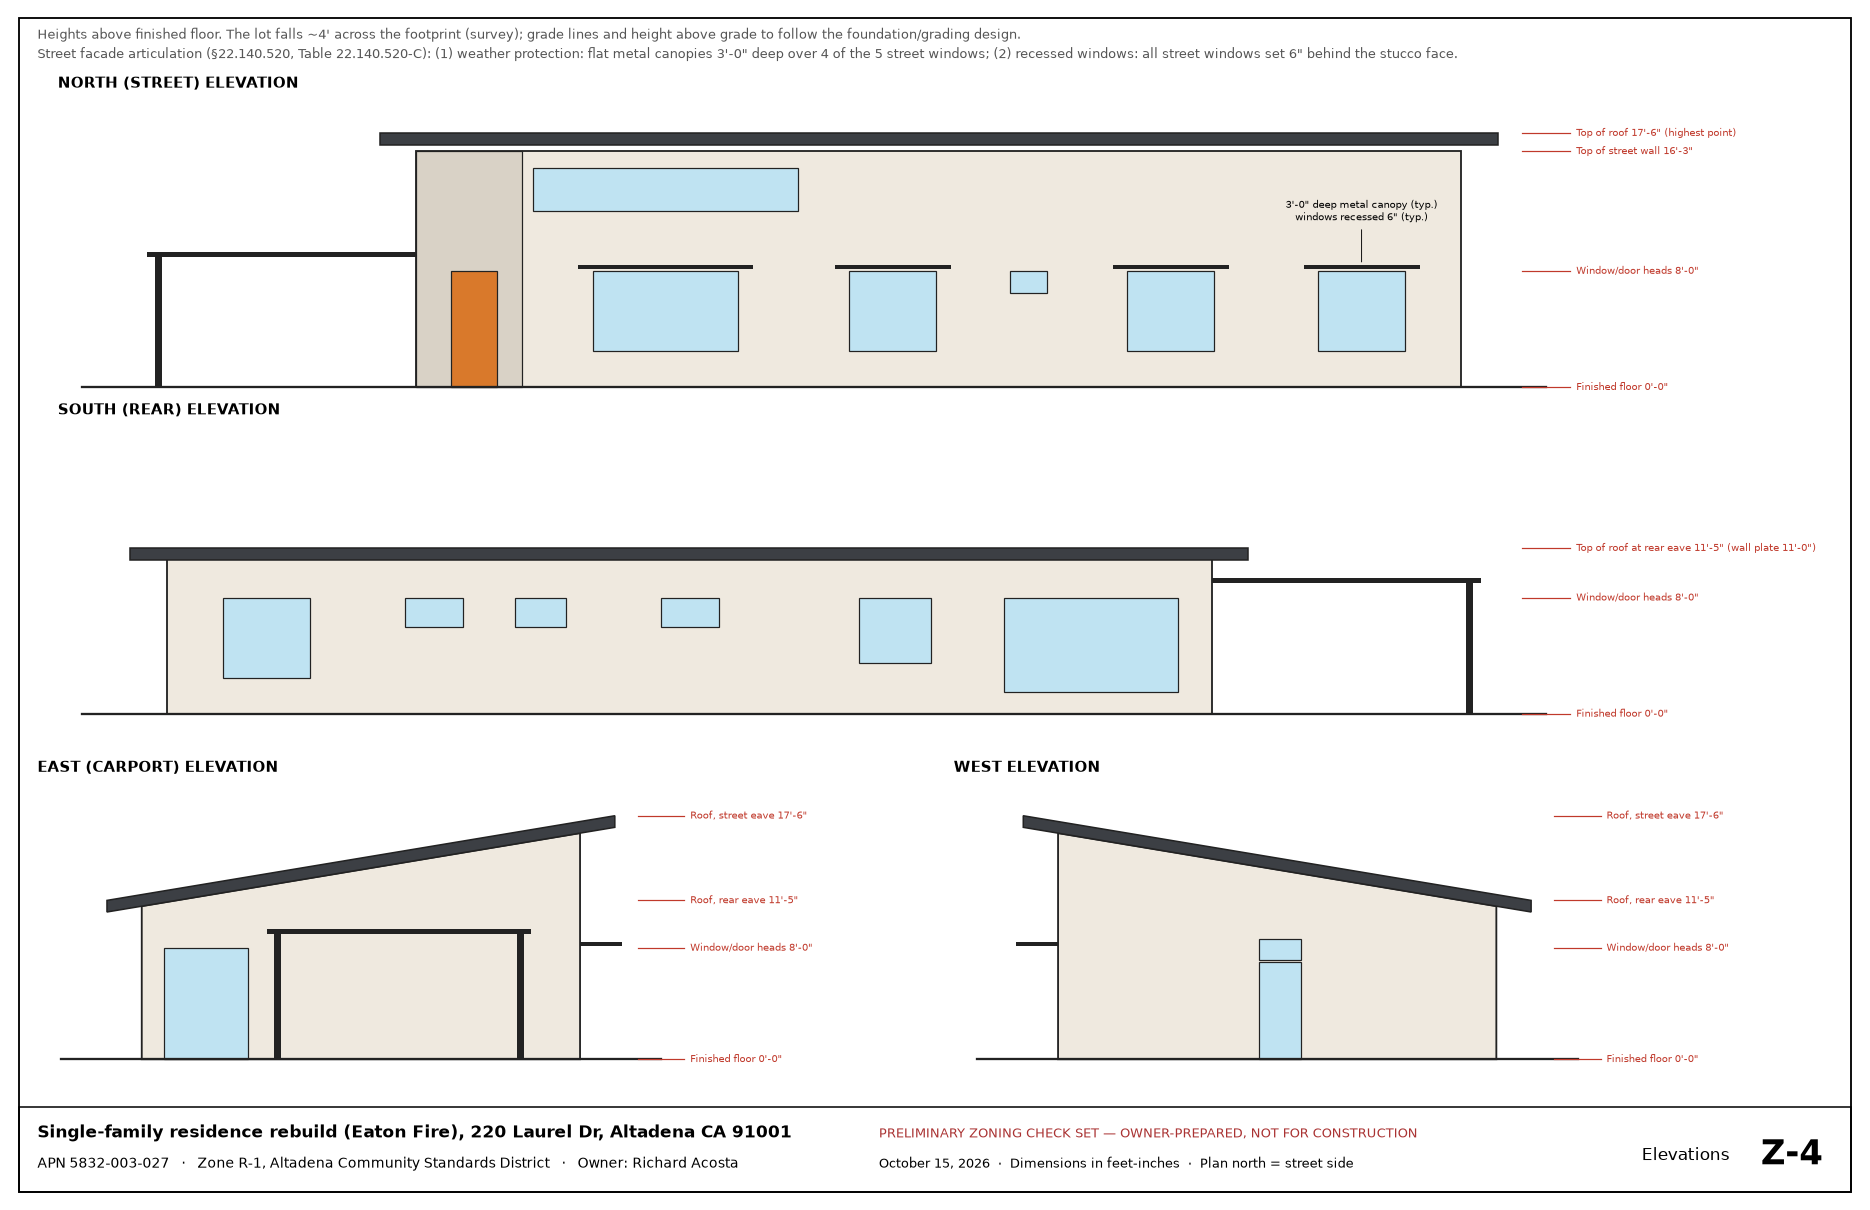
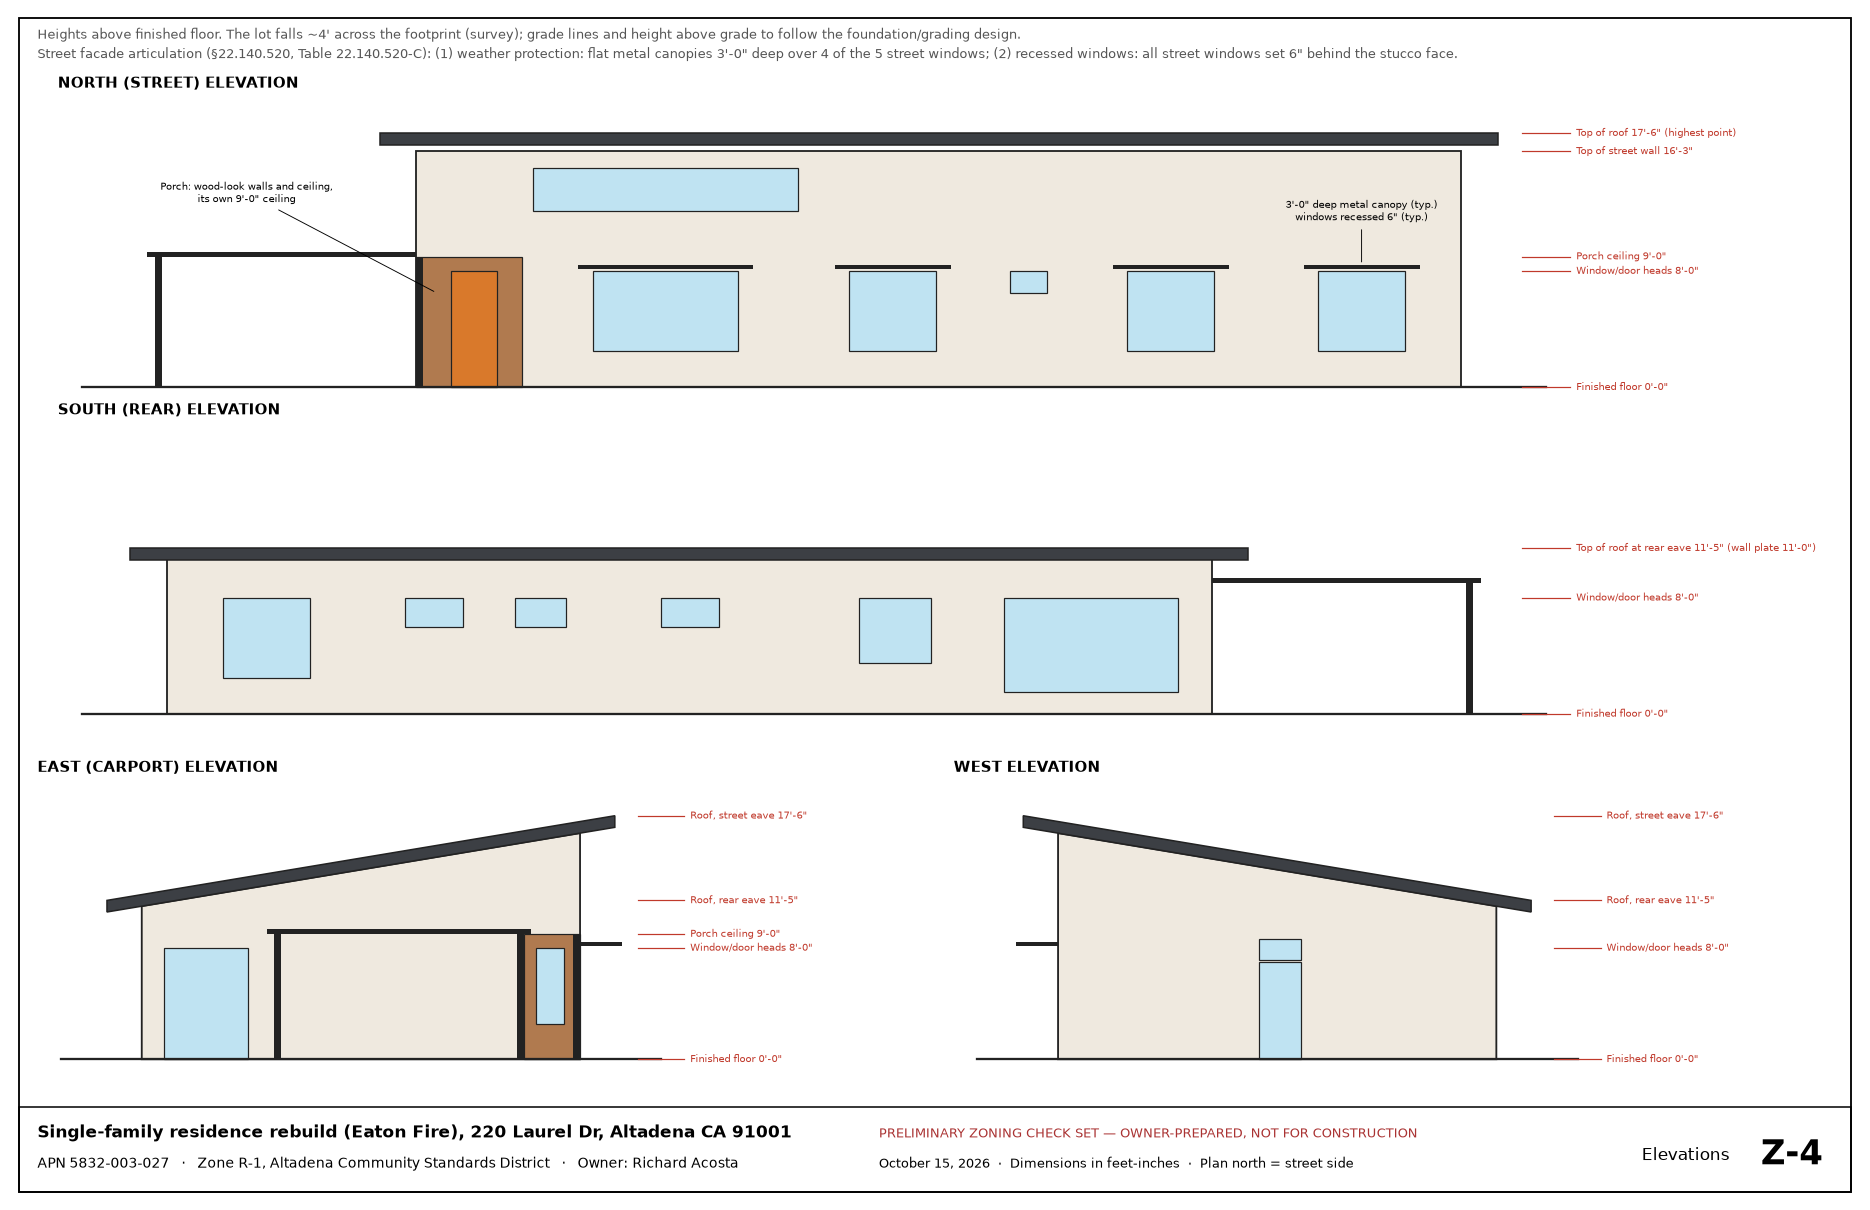
Zoning set Z-4: the porch shown with its own 9' ceiling and wood-look walls (street and carport elevations), with the reeded side window and the corner post

Changed region(s): [[0.2171, 0.1223, 0.2791, 0.3364], [0.2791, 0.7645, 0.3102, 0.8868], [0.093, 0.1529, 0.1551, 0.1835]]

diff --git a/scripts/zoning_set.py b/scripts/zoning_set.py
@@ -253,6 +253,10 @@ def openings_on(wall):
         yield o[1], o[2], z0, z1, k
 
 
+WOOD = "#b07a4f"
+PORCH_CEIL = M.CEIL                                    # the porch's own ceiling, 9'-0"
+
+
 def elevation(ax, side):
     """side: north | south | east | west. Horizontal axis runs left-to-right as seen from outside."""
     flip = side in ("south", "east")
@@ -264,8 +268,11 @@ def elevation(ax, side):
         za = UNDER(S.N - OV) if side == "north" else UNDER(S.S + OV)
         ax.add_patch(Rectangle((min(h(a - OV), h(b + OV)), za), b - a + 2 * OV, THK, fc="#3c3f44", ec=INK))
         if side == "north":
-            ax.add_patch(Rectangle((h(a) if not flip else h(S.PORCH_X), 0), S.PORCH_X - a, wall_top,
-                                   fc="#d9d2c6", ec=INK, lw=0.8))                    # recessed porch
+            ax.add_patch(Rectangle((h(a), 0), S.PORCH_X - a, PORCH_CEIL, fc=WOOD, ec=INK, lw=0.8))   # porch: its
+            ax.add_patch(Rectangle((h(a), 0), 6, PORCH_CEIL, fc=INK))       # wood-look back wall under its own
+            ax.annotate("Porch: wood-look walls and ceiling,\nits own 9'-0\" ceiling", (h(a) + 17, PORCH_CEIL - 30),
+                        (h(a) - 140, PORCH_CEIL + 45), fontsize=6.5, ha="center",
+                        arrowprops=dict(arrowstyle="-", lw=0.6))
             for x0, x1, z0, z1, k in openings_on("porch front"):
                 ax.add_patch(Rectangle((h(x0), z0), x1 - x0, z1 - z0, fc="#d9792b" if k == "door" else "#bfe3f2",
                                        ec=INK, lw=0.8))
@@ -296,6 +303,12 @@ def elevation(ax, side):
         ax.add_patch(MPoly(roof, closed=True, fc="#3c3f44", ec=INK))
         for x0, x1, z0, z1, k in openings_on(side):
             ax.add_patch(Rectangle((min(hy(x0), hy(x1)), z0), x1 - x0, z1 - z0, fc="#bfe3f2", ec=INK, lw=0.8))
+        if side == "east":                                         # into the porch: wood-look side wall,
+            ax.add_patch(Rectangle((min(hy(S.N), hy(S.PORCH_Y)), 0), S.PORCH_Y - S.N, PORCH_CEIL,   # reeded window
+                                   fc=WOOD, ec=INK, lw=0.8))
+            for y0, y1, z0, z1, k in openings_on("porch side"):
+                ax.add_patch(Rectangle((min(hy(y0), hy(y1)), z0), y1 - y0, z1 - z0, fc="#bfe3f2", ec=INK, lw=0.8))
+            ax.add_patch(Rectangle((min(hy(S.N), hy(S.N + 6)), 0), 6, PORCH_CEIL, fc=INK))      # porch corner post
         ax.add_patch(Rectangle((min(hy(a - S.CANOPY_D), hy(a)), S.CANOPY_Z), S.CANOPY_D, 3, fc=INK))   # canopy, end-on
         if side == "east":                                         # carport in front: posts + roof
             for yy in (cy0, cy1 - 6):
@@ -307,6 +320,8 @@ def elevation(ax, side):
         hi = max(hi, h(cx0) + 20) if side == "south" else hi
     ax.plot([lo - 40, hi + 40], [0, 0], color=INK, lw=1.5)
     marks = [(0, "Finished floor 0'-0\""), (M.HEAD, "Window/door heads 8'-0\"")]
+    if side in ("north", "east"):
+        marks += [(PORCH_CEIL, f"Porch ceiling {ftin(PORCH_CEIL)}")]
     if side == "north":
         marks += [(UNDER(S.N), f"Top of street wall {ftin(UNDER(S.N))}"), (TOP, f"Top of roof {ftin(TOP)} (highest point)")]
     elif side == "south":

diff --git a/README.md b/README.md
@@ -1,6 +1,6 @@
 # Accosting rebuild: floor plan and design wishlist
 
-220 Laurel Dr, Altadena. All-electric, single-story Eaton Fire rebuild. Updated Oct 15, 2026, 10:35 PM PT · @Richard
+220 Laurel Dr, Altadena. All-electric, single-story Eaton Fire rebuild. Updated Oct 15, 2026, 10:37 PM PT · @Richard
 
 ![Site plan](renders/schematic.png)
 
